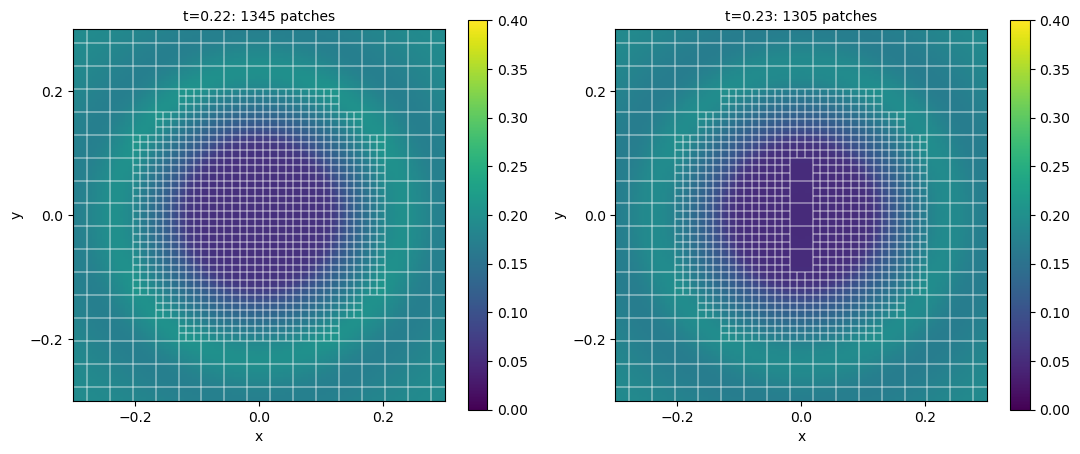
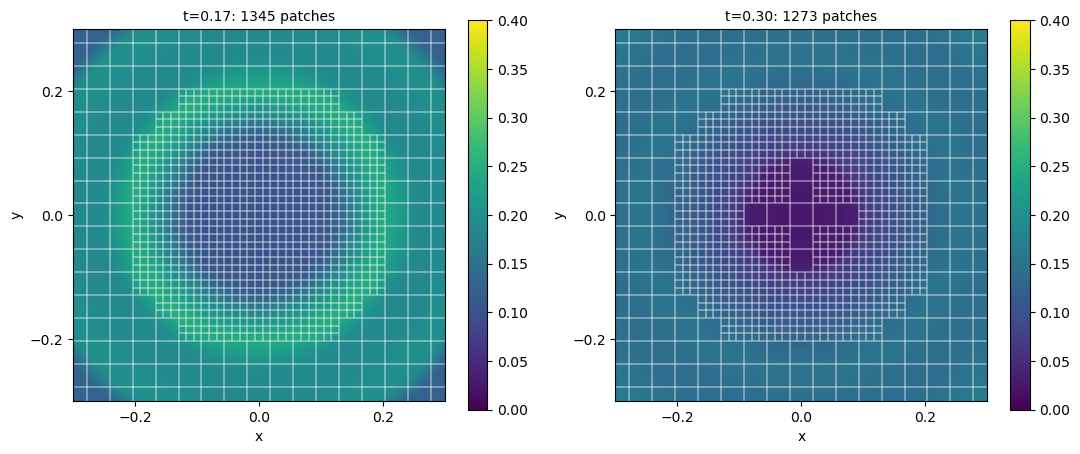
Tutorial 13_euler-with-amr: dynamic section after the erase optimisation
ExaHyPE now hands Peano only erase requests which it can realise. The
dynamically adaptive mesh therefore coarsens twice, at t=0.17 (the centre
cell) and at t=0.23 (two further cells along each axis), the mesh
adaptation phase runs only twice, and the mesh remains rotationally
symmetric. The text and the pictures describe this outcome; the mesh
picture now shows the final mesh instead of the one right after the first
change.

diff --git a/tutorials/exahype2/illustrations/13_euler-with-amr.py b/tutorials/exahype2/illustrations/13_euler-with-amr.py
@@ -501,7 +501,7 @@ def plot_dynamic_patch_count(directory):
 
 
 def plot_dynamic_mesh_change(directory):
-    """! Density and patch boundaries right before and after the first mesh change"""
+    """! Density and patch boundaries right before the first mesh change and at the end"""
     times, counts = patch_counts(directory)
     changes = [i for i in range(1, len(counts)) if counts[i] != counts[i - 1]]
     if not changes:
@@ -509,7 +509,7 @@ def plot_dynamic_mesh_change(directory):
         return
     file_name = os.path.join(directory, PatchFile)
     fig, axes = plt.subplots(1, 2, figsize=(11, 4.5))
-    for ax, snapshot in zip(axes, [changes[0] - 1, changes[0]]):
+    for ax, snapshot in zip(axes, [changes[0] - 1, len(counts) - 1]):
         tarch.plotter.api.notebook.plot_snapshot(
             file_name, snapshot, 0, label="density", ax=ax, clim=(0.0, 0.4)
         )
